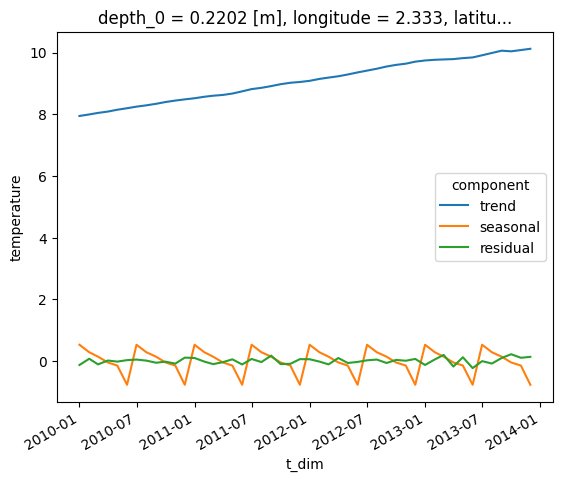
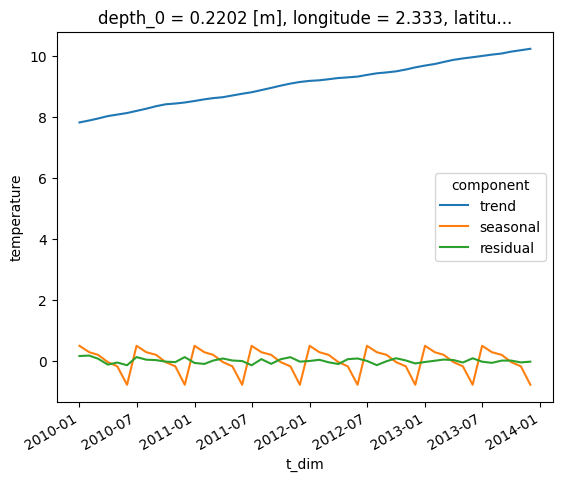
Updated General notebook pages from coast repo.

diff --git a/content/en/docs/Examples/Notebooks/General/seasonal_decomp_example.md b/content/en/docs/Examples/Notebooks/General/seasonal_decomp_example.md
@@ -86,7 +86,7 @@ temperature[0,0,:,:].plot()
 
 
 
-    <matplotlib.collections.QuadMesh at 0x7f0bca7c5e50>
+    <matplotlib.collections.QuadMesh at 0x7f62ce672790>
 
 
 
@@ -107,7 +107,7 @@ temperature[:,0,200,200].plot()
 
 
 
-    [<matplotlib.lines.Line2D at 0x7f0bc86026d0>]
+    [<matplotlib.lines.Line2D at 0x7f62cc48f820>]
 
 
 
@@ -525,7 +525,7 @@ Dimensions without coordinates: z_dim, y_dim, x_dim
 Data variables:
     trend      (t_dim, z_dim, y_dim, x_dim) float64 nan nan nan ... nan nan nan
     seasonal   (t_dim, z_dim, y_dim, x_dim) float64 nan nan nan ... nan nan nan
-    residual   (t_dim, z_dim, y_dim, x_dim) float64 nan nan nan ... nan nan nan</pre><div class='xr-wrap' style='display:none'><div class='xr-header'><div class='xr-obj-type'>xarray.Dataset</div></div><ul class='xr-sections'><li class='xr-section-item'><input id='section-40ec19ea-aab2-471b-a9e0-d44d515ee66f' class='xr-section-summary-in' type='checkbox' disabled ><label for='section-40ec19ea-aab2-471b-a9e0-d44d515ee66f' class='xr-section-summary'  title='Expand/collapse section'>Dimensions:</label><div class='xr-section-inline-details'><ul class='xr-dim-list'><li><span class='xr-has-index'>t_dim</span>: 48</li><li><span>z_dim</span>: 2</li><li><span>y_dim</span>: 375</li><li><span>x_dim</span>: 297</li></ul></div><div class='xr-section-details'></div></li><li class='xr-section-item'><input id='section-46bbb4de-ccfb-4165-a739-7895f18504a1' class='xr-section-summary-in' type='checkbox'  checked><label for='section-46bbb4de-ccfb-4165-a739-7895f18504a1' class='xr-section-summary' >Coordinates: <span>(4)</span></label><div class='xr-section-inline-details'></div><div class='xr-section-details'><ul class='xr-var-list'><li class='xr-var-item'><div class='xr-var-name'><span class='xr-has-index'>t_dim</span></div><div class='xr-var-dims'>(t_dim)</div><div class='xr-var-dtype'>datetime64[ns]</div><div class='xr-var-preview xr-preview'>2010-01-01 ... 2013-12-01</div><input id='attrs-8bab88d5-cfba-490e-86a2-385dc99b7c85' class='xr-var-attrs-in' type='checkbox' disabled><label for='attrs-8bab88d5-cfba-490e-86a2-385dc99b7c85' title='Show/Hide attributes'><svg class='icon xr-icon-file-text2'><use xlink:href='#icon-file-text2'></use></svg></label><input id='data-8e9e0b3e-ba79-4673-b732-813b495d7370' class='xr-var-data-in' type='checkbox'><label for='data-8e9e0b3e-ba79-4673-b732-813b495d7370' title='Show/Hide data repr'><svg class='icon xr-icon-database'><use xlink:href='#icon-database'></use></svg></label><div class='xr-var-attrs'><dl class='xr-attrs'></dl></div><div class='xr-var-data'><pre>array([&#x27;2010-01-01T00:00:00.000000000&#x27;, &#x27;2010-02-01T00:00:00.000000000&#x27;,
+    residual   (t_dim, z_dim, y_dim, x_dim) float64 nan nan nan ... nan nan nan</pre><div class='xr-wrap' style='display:none'><div class='xr-header'><div class='xr-obj-type'>xarray.Dataset</div></div><ul class='xr-sections'><li class='xr-section-item'><input id='section-bcdc258c-0a86-49d1-97e6-290416249f6c' class='xr-section-summary-in' type='checkbox' disabled ><label for='section-bcdc258c-0a86-49d1-97e6-290416249f6c' class='xr-section-summary'  title='Expand/collapse section'>Dimensions:</label><div class='xr-section-inline-details'><ul class='xr-dim-list'><li><span class='xr-has-index'>t_dim</span>: 48</li><li><span>z_dim</span>: 2</li><li><span>y_dim</span>: 375</li><li><span>x_dim</span>: 297</li></ul></div><div class='xr-section-details'></div></li><li class='xr-section-item'><input id='section-721a54f7-8f56-4215-94c2-9fef108885ff' class='xr-section-summary-in' type='checkbox'  checked><label for='section-721a54f7-8f56-4215-94c2-9fef108885ff' class='xr-section-summary' >Coordinates: <span>(4)</span></label><div class='xr-section-inline-details'></div><div class='xr-section-details'><ul class='xr-var-list'><li class='xr-var-item'><div class='xr-var-name'><span class='xr-has-index'>t_dim</span></div><div class='xr-var-dims'>(t_dim)</div><div class='xr-var-dtype'>datetime64[ns]</div><div class='xr-var-preview xr-preview'>2010-01-01 ... 2013-12-01</div><input id='attrs-da608ac9-82da-4406-b3f1-d85920e2038a' class='xr-var-attrs-in' type='checkbox' disabled><label for='attrs-da608ac9-82da-4406-b3f1-d85920e2038a' title='Show/Hide attributes'><svg class='icon xr-icon-file-text2'><use xlink:href='#icon-file-text2'></use></svg></label><input id='data-b71b4ba4-f8d2-4a1e-8e7f-4dc4e1637b17' class='xr-var-data-in' type='checkbox'><label for='data-b71b4ba4-f8d2-4a1e-8e7f-4dc4e1637b17' title='Show/Hide data repr'><svg class='icon xr-icon-database'><use xlink:href='#icon-database'></use></svg></label><div class='xr-var-attrs'><dl class='xr-attrs'></dl></div><div class='xr-var-data'><pre>array([&#x27;2010-01-01T00:00:00.000000000&#x27;, &#x27;2010-02-01T00:00:00.000000000&#x27;,
        &#x27;2010-03-01T00:00:00.000000000&#x27;, &#x27;2010-04-01T00:00:00.000000000&#x27;,
        &#x27;2010-05-01T00:00:00.000000000&#x27;, &#x27;2010-06-01T00:00:00.000000000&#x27;,
        &#x27;2010-07-01T00:00:00.000000000&#x27;, &#x27;2010-08-01T00:00:00.000000000&#x27;,
@@ -549,7 +549,7 @@ Data variables:
        &#x27;2013-07-01T00:00:00.000000000&#x27;, &#x27;2013-08-01T00:00:00.000000000&#x27;,
        &#x27;2013-09-01T00:00:00.000000000&#x27;, &#x27;2013-10-01T00:00:00.000000000&#x27;,
        &#x27;2013-11-01T00:00:00.000000000&#x27;, &#x27;2013-12-01T00:00:00.000000000&#x27;],
-      dtype=&#x27;datetime64[ns]&#x27;)</pre></div></li><li class='xr-var-item'><div class='xr-var-name'><span>depth_0</span></div><div class='xr-var-dims'>(z_dim, y_dim, x_dim)</div><div class='xr-var-dtype'>float32</div><div class='xr-var-preview xr-preview'>0.5 0.5 0.5 0.5 ... 1.5 1.5 1.5 1.5</div><input id='attrs-b5ba8169-f8d6-4c3c-995a-e67a7c819eb5' class='xr-var-attrs-in' type='checkbox' ><label for='attrs-b5ba8169-f8d6-4c3c-995a-e67a7c819eb5' title='Show/Hide attributes'><svg class='icon xr-icon-file-text2'><use xlink:href='#icon-file-text2'></use></svg></label><input id='data-d6f3d59f-b69c-43a5-b2c2-f29038998147' class='xr-var-data-in' type='checkbox'><label for='data-d6f3d59f-b69c-43a5-b2c2-f29038998147' title='Show/Hide data repr'><svg class='icon xr-icon-database'><use xlink:href='#icon-database'></use></svg></label><div class='xr-var-attrs'><dl class='xr-attrs'><dt><span>units :</span></dt><dd>m</dd><dt><span>standard_name :</span></dt><dd>Depth at time zero on the t-grid</dd></dl></div><div class='xr-var-data'><pre>array([[[0.5       , 0.5       , 0.5       , ..., 0.5       ,
+      dtype=&#x27;datetime64[ns]&#x27;)</pre></div></li><li class='xr-var-item'><div class='xr-var-name'><span>depth_0</span></div><div class='xr-var-dims'>(z_dim, y_dim, x_dim)</div><div class='xr-var-dtype'>float32</div><div class='xr-var-preview xr-preview'>0.5 0.5 0.5 0.5 ... 1.5 1.5 1.5 1.5</div><input id='attrs-5d7ecb33-f884-451f-b693-167737b73feb' class='xr-var-attrs-in' type='checkbox' ><label for='attrs-5d7ecb33-f884-451f-b693-167737b73feb' title='Show/Hide attributes'><svg class='icon xr-icon-file-text2'><use xlink:href='#icon-file-text2'></use></svg></label><input id='data-e4311218-79ed-41fd-8929-1b58914ca6c1' class='xr-var-data-in' type='checkbox'><label for='data-e4311218-79ed-41fd-8929-1b58914ca6c1' title='Show/Hide data repr'><svg class='icon xr-icon-database'><use xlink:href='#icon-database'></use></svg></label><div class='xr-var-attrs'><dl class='xr-attrs'><dt><span>units :</span></dt><dd>m</dd><dt><span>standard_name :</span></dt><dd>Depth at time zero on the t-grid</dd></dl></div><div class='xr-var-data'><pre>array([[[0.5       , 0.5       , 0.5       , ..., 0.5       ,
          0.5       , 0.5       ],
         [0.5       , 0.4975586 , 0.4975586 , ..., 0.10009766,
          0.10009766, 0.5       ],
@@ -575,7 +575,7 @@ Data variables:
         [1.5       , 0.30029297, 0.30029297, ..., 0.30029297,
          0.30029297, 1.5       ],
         [1.5       , 1.5       , 1.5       , ..., 1.5       ,
-         1.5       , 1.5       ]]], dtype=float32)</pre></div></li><li class='xr-var-item'><div class='xr-var-name'><span>longitude</span></div><div class='xr-var-dims'>(y_dim, x_dim)</div><div class='xr-var-dtype'>float32</div><div class='xr-var-preview xr-preview'>-19.89 -19.78 -19.67 ... 12.89 13.0</div><input id='attrs-4896fb95-12c7-4252-92d5-f5be54cbbd29' class='xr-var-attrs-in' type='checkbox' disabled><label for='attrs-4896fb95-12c7-4252-92d5-f5be54cbbd29' title='Show/Hide attributes'><svg class='icon xr-icon-file-text2'><use xlink:href='#icon-file-text2'></use></svg></label><input id='data-9d5cae15-1eb2-400e-b97f-9235ef6571a7' class='xr-var-data-in' type='checkbox'><label for='data-9d5cae15-1eb2-400e-b97f-9235ef6571a7' title='Show/Hide data repr'><svg class='icon xr-icon-database'><use xlink:href='#icon-database'></use></svg></label><div class='xr-var-attrs'><dl class='xr-attrs'></dl></div><div class='xr-var-data'><pre>array([[-19.888672, -19.777344, -19.666992, ...,  12.777344,  12.888672,
+         1.5       , 1.5       ]]], dtype=float32)</pre></div></li><li class='xr-var-item'><div class='xr-var-name'><span>longitude</span></div><div class='xr-var-dims'>(y_dim, x_dim)</div><div class='xr-var-dtype'>float32</div><div class='xr-var-preview xr-preview'>-19.89 -19.78 -19.67 ... 12.89 13.0</div><input id='attrs-5e5ec228-53bc-45b6-811d-25fcb3582729' class='xr-var-attrs-in' type='checkbox' disabled><label for='attrs-5e5ec228-53bc-45b6-811d-25fcb3582729' title='Show/Hide attributes'><svg class='icon xr-icon-file-text2'><use xlink:href='#icon-file-text2'></use></svg></label><input id='data-f098be00-1087-4767-b2cb-7cc9473ffd6e' class='xr-var-data-in' type='checkbox'><label for='data-f098be00-1087-4767-b2cb-7cc9473ffd6e' title='Show/Hide data repr'><svg class='icon xr-icon-database'><use xlink:href='#icon-database'></use></svg></label><div class='xr-var-attrs'><dl class='xr-attrs'></dl></div><div class='xr-var-data'><pre>array([[-19.888672, -19.777344, -19.666992, ...,  12.777344,  12.888672,
          13.      ],
        [-19.888672, -19.777344, -19.666992, ...,  12.777344,  12.888672,
          13.      ],
@@ -587,7 +587,7 @@ Data variables:
        [-19.888672, -19.777344, -19.666992, ...,  12.777344,  12.888672,
          13.      ],
        [-19.888672, -19.777344, -19.666992, ...,  12.777344,  12.888672,
-         13.      ]], dtype=float32)</pre></div></li><li class='xr-var-item'><div class='xr-var-name'><span>latitude</span></div><div class='xr-var-dims'>(y_dim, x_dim)</div><div class='xr-var-dtype'>float32</div><div class='xr-var-preview xr-preview'>40.07 40.07 40.07 ... 65.0 65.0</div><input id='attrs-9f4bff36-0da8-4834-845d-8d5d5ef647fa' class='xr-var-attrs-in' type='checkbox' disabled><label for='attrs-9f4bff36-0da8-4834-845d-8d5d5ef647fa' title='Show/Hide attributes'><svg class='icon xr-icon-file-text2'><use xlink:href='#icon-file-text2'></use></svg></label><input id='data-b1844bcf-0c18-423a-bea5-6830e29c8298' class='xr-var-data-in' type='checkbox'><label for='data-b1844bcf-0c18-423a-bea5-6830e29c8298' title='Show/Hide data repr'><svg class='icon xr-icon-database'><use xlink:href='#icon-database'></use></svg></label><div class='xr-var-attrs'><dl class='xr-attrs'></dl></div><div class='xr-var-data'><pre>array([[40.066406, 40.066406, 40.066406, ..., 40.066406, 40.066406,
+         13.      ]], dtype=float32)</pre></div></li><li class='xr-var-item'><div class='xr-var-name'><span>latitude</span></div><div class='xr-var-dims'>(y_dim, x_dim)</div><div class='xr-var-dtype'>float32</div><div class='xr-var-preview xr-preview'>40.07 40.07 40.07 ... 65.0 65.0</div><input id='attrs-51c1b01a-df9b-49c4-820b-866554b78de5' class='xr-var-attrs-in' type='checkbox' disabled><label for='attrs-51c1b01a-df9b-49c4-820b-866554b78de5' title='Show/Hide attributes'><svg class='icon xr-icon-file-text2'><use xlink:href='#icon-file-text2'></use></svg></label><input id='data-a62d642c-4e47-4c70-aa1e-d9666ffb17e7' class='xr-var-data-in' type='checkbox'><label for='data-a62d642c-4e47-4c70-aa1e-d9666ffb17e7' title='Show/Hide data repr'><svg class='icon xr-icon-database'><use xlink:href='#icon-database'></use></svg></label><div class='xr-var-attrs'><dl class='xr-attrs'></dl></div><div class='xr-var-data'><pre>array([[40.066406, 40.066406, 40.066406, ..., 40.066406, 40.066406,
         40.066406],
        [40.13379 , 40.13379 , 40.13379 , ..., 40.13379 , 40.13379 ,
         40.13379 ],
@@ -599,11 +599,11 @@ Data variables:
        [64.93457 , 64.93457 , 64.93457 , ..., 64.93457 , 64.93457 ,
         64.93457 ],
        [65.00098 , 65.00098 , 65.00098 , ..., 65.00098 , 65.00098 ,
-        65.00098 ]], dtype=float32)</pre></div></li></ul></div></li><li class='xr-section-item'><input id='section-0784e2de-76f9-4781-ae3c-5ee5f38a467a' class='xr-section-summary-in' type='checkbox'  checked><label for='section-0784e2de-76f9-4781-ae3c-5ee5f38a467a' class='xr-section-summary' >Data variables: <span>(3)</span></label><div class='xr-section-inline-details'></div><div class='xr-section-details'><ul class='xr-var-list'><li class='xr-var-item'><div class='xr-var-name'><span>trend</span></div><div class='xr-var-dims'>(t_dim, z_dim, y_dim, x_dim)</div><div class='xr-var-dtype'>float64</div><div class='xr-var-preview xr-preview'>nan nan nan nan ... nan nan nan nan</div><input id='attrs-2d2c5efb-b83d-4c21-8c38-59bbfc83566d' class='xr-var-attrs-in' type='checkbox' disabled><label for='attrs-2d2c5efb-b83d-4c21-8c38-59bbfc83566d' title='Show/Hide attributes'><svg class='icon xr-icon-file-text2'><use xlink:href='#icon-file-text2'></use></svg></label><input id='data-3d8113a3-c8c5-4634-8647-77a054bbd8bf' class='xr-var-data-in' type='checkbox'><label for='data-3d8113a3-c8c5-4634-8647-77a054bbd8bf' title='Show/Hide data repr'><svg class='icon xr-icon-database'><use xlink:href='#icon-database'></use></svg></label><div class='xr-var-attrs'><dl class='xr-attrs'></dl></div><div class='xr-var-data'><pre>array([[[[        nan,         nan,         nan, ...,         nan,
+        65.00098 ]], dtype=float32)</pre></div></li></ul></div></li><li class='xr-section-item'><input id='section-2bfa1d2e-5dd4-4d8d-91ae-94579e238859' class='xr-section-summary-in' type='checkbox'  checked><label for='section-2bfa1d2e-5dd4-4d8d-91ae-94579e238859' class='xr-section-summary' >Data variables: <span>(3)</span></label><div class='xr-section-inline-details'></div><div class='xr-section-details'><ul class='xr-var-list'><li class='xr-var-item'><div class='xr-var-name'><span>trend</span></div><div class='xr-var-dims'>(t_dim, z_dim, y_dim, x_dim)</div><div class='xr-var-dtype'>float64</div><div class='xr-var-preview xr-preview'>nan nan nan nan ... nan nan nan nan</div><input id='attrs-76ef45de-616d-4338-bc50-a2cedb5056b0' class='xr-var-attrs-in' type='checkbox' disabled><label for='attrs-76ef45de-616d-4338-bc50-a2cedb5056b0' title='Show/Hide attributes'><svg class='icon xr-icon-file-text2'><use xlink:href='#icon-file-text2'></use></svg></label><input id='data-45dbdf72-cf15-4a20-bcce-ec58d5f4ee7d' class='xr-var-data-in' type='checkbox'><label for='data-45dbdf72-cf15-4a20-bcce-ec58d5f4ee7d' title='Show/Hide data repr'><svg class='icon xr-icon-database'><use xlink:href='#icon-database'></use></svg></label><div class='xr-var-attrs'><dl class='xr-attrs'></dl></div><div class='xr-var-data'><pre>array([[[[        nan,         nan,         nan, ...,         nan,
                   nan,         nan],
-         [        nan, 15.35829368, 15.35503847, ...,         nan,
+         [        nan, 15.22745278, 15.22419757, ...,         nan,
                   nan,         nan],
-         [        nan, 15.34722597, 15.51503196, ...,         nan,
+         [        nan, 15.21638507, 15.38419106, ...,         nan,
                   nan,         nan],
          ...,
          [        nan,         nan,         nan, ...,         nan,
@@ -615,9 +615,9 @@ Data variables:
 
         [[        nan,         nan,         nan, ...,         nan,
                   nan,         nan],
-         [        nan, 15.35731712, 15.35422467, ...,         nan,
+         [        nan, 15.22647622, 15.22338377, ...,         nan,
                   nan,         nan],
-         [        nan, 15.34608665, 15.51893821, ...,         nan,
+         [        nan, 15.21524575, 15.38809731, ...,         nan,
                   nan,         nan],
 ...
          [        nan,         nan,         nan, ...,         nan,
@@ -629,9 +629,9 @@ Data variables:
 
         [[        nan,         nan,         nan, ...,         nan,
                   nan,         nan],
-         [        nan, 17.53554089, 17.53244845, ...,         nan,
+         [        nan, 17.63990866, 17.63681621, ...,         nan,
                   nan,         nan],
-         [        nan, 17.52431043, 17.69716199, ...,         nan,
+         [        nan, 17.62867819, 17.80152975, ...,         nan,
                   nan,         nan],
          ...,
          [        nan,         nan,         nan, ...,         nan,
@@ -639,11 +639,11 @@ Data variables:
          [        nan,         nan,         nan, ...,         nan,
                   nan,         nan],
          [        nan,         nan,         nan, ...,         nan,
-                  nan,         nan]]]])</pre></div></li><li class='xr-var-item'><div class='xr-var-name'><span>seasonal</span></div><div class='xr-var-dims'>(t_dim, z_dim, y_dim, x_dim)</div><div class='xr-var-dtype'>float64</div><div class='xr-var-preview xr-preview'>nan nan nan nan ... nan nan nan nan</div><input id='attrs-b11ef64e-85cf-48ae-b38d-b791fbd8b761' class='xr-var-attrs-in' type='checkbox' disabled><label for='attrs-b11ef64e-85cf-48ae-b38d-b791fbd8b761' title='Show/Hide attributes'><svg class='icon xr-icon-file-text2'><use xlink:href='#icon-file-text2'></use></svg></label><input id='data-92011388-7136-41b8-a3da-dcb1aedde969' class='xr-var-data-in' type='checkbox'><label for='data-92011388-7136-41b8-a3da-dcb1aedde969' title='Show/Hide data repr'><svg class='icon xr-icon-database'><use xlink:href='#icon-database'></use></svg></label><div class='xr-var-attrs'><dl class='xr-attrs'></dl></div><div class='xr-var-data'><pre>array([[[[        nan,         nan,         nan, ...,         nan,
+                  nan,         nan]]]])</pre></div></li><li class='xr-var-item'><div class='xr-var-name'><span>seasonal</span></div><div class='xr-var-dims'>(t_dim, z_dim, y_dim, x_dim)</div><div class='xr-var-dtype'>float64</div><div class='xr-var-preview xr-preview'>nan nan nan nan ... nan nan nan nan</div><input id='attrs-b7fc9fc1-a217-4a92-a525-01e9efab61d0' class='xr-var-attrs-in' type='checkbox' disabled><label for='attrs-b7fc9fc1-a217-4a92-a525-01e9efab61d0' title='Show/Hide attributes'><svg class='icon xr-icon-file-text2'><use xlink:href='#icon-file-text2'></use></svg></label><input id='data-3761f910-ad8f-49f2-bf2a-31afdbcc180d' class='xr-var-data-in' type='checkbox'><label for='data-3761f910-ad8f-49f2-bf2a-31afdbcc180d' title='Show/Hide data repr'><svg class='icon xr-icon-database'><use xlink:href='#icon-database'></use></svg></label><div class='xr-var-attrs'><dl class='xr-attrs'></dl></div><div class='xr-var-data'><pre>array([[[[        nan,         nan,         nan, ...,         nan,
                   nan,         nan],
-         [        nan,  0.06124321, -0.02241564, ...,         nan,
+         [        nan,  0.02990087, -0.05375798, ...,         nan,
                   nan,         nan],
-         [        nan,  0.08695936,  0.31661431, ...,         nan,
+         [        nan,  0.05561702,  0.28527197, ...,         nan,
                   nan,         nan],
          ...,
          [        nan,         nan,         nan, ...,         nan,
@@ -655,9 +655,9 @@ Data variables:
 
         [[        nan,         nan,         nan, ...,         nan,
                   nan,         nan],
-         [        nan,  0.05050102, -0.03332059, ...,         nan,
+         [        nan,  0.01915869, -0.06466293, ...,         nan,
                   nan,         nan],
-         [        nan,  0.07637993,  0.31270806, ...,         nan,
+         [        nan,  0.04503759,  0.28136572, ...,         nan,
                   nan,         nan],
 ...
          [        nan,         nan,         nan, ...,         nan,
@@ -669,9 +669,9 @@ Data variables:
 
         [[        nan,         nan,         nan, ...,         nan,
                   nan,         nan],
-         [        nan, -0.27856238, -0.26179805, ...,         nan,
+         [        nan, -0.28915056, -0.27238624, ...,         nan,
                   nan,         nan],
-         [        nan, -0.28881628, -0.6374491 , ...,         nan,
+         [        nan, -0.29940447, -0.64803728, ...,         nan,
                   nan,         nan],
          ...,
          [        nan,         nan,         nan, ...,         nan,
@@ -679,11 +679,11 @@ Data variables:
          [        nan,         nan,         nan, ...,         nan,
                   nan,         nan],
          [        nan,         nan,         nan, ...,         nan,
-                  nan,         nan]]]])</pre></div></li><li class='xr-var-item'><div class='xr-var-name'><span>residual</span></div><div class='xr-var-dims'>(t_dim, z_dim, y_dim, x_dim)</div><div class='xr-var-dtype'>float64</div><div class='xr-var-preview xr-preview'>nan nan nan nan ... nan nan nan nan</div><input id='attrs-117569b7-5788-4591-9bb5-6811fa83c0e7' class='xr-var-attrs-in' type='checkbox' disabled><label for='attrs-117569b7-5788-4591-9bb5-6811fa83c0e7' title='Show/Hide attributes'><svg class='icon xr-icon-file-text2'><use xlink:href='#icon-file-text2'></use></svg></label><input id='data-8c9ab8f8-53ef-4ab2-bdd5-ddfa4bbb81a9' class='xr-var-data-in' type='checkbox'><label for='data-8c9ab8f8-53ef-4ab2-bdd5-ddfa4bbb81a9' title='Show/Hide data repr'><svg class='icon xr-icon-database'><use xlink:href='#icon-database'></use></svg></label><div class='xr-var-attrs'><dl class='xr-attrs'></dl></div><div class='xr-var-data'><pre>array([[[[        nan,         nan,         nan, ...,         nan,
+                  nan,         nan]]]])</pre></div></li><li class='xr-var-item'><div class='xr-var-name'><span>residual</span></div><div class='xr-var-dims'>(t_dim, z_dim, y_dim, x_dim)</div><div class='xr-var-dtype'>float64</div><div class='xr-var-preview xr-preview'>nan nan nan nan ... nan nan nan nan</div><input id='attrs-210bdc83-865a-4644-b380-112616d778c6' class='xr-var-attrs-in' type='checkbox' disabled><label for='attrs-210bdc83-865a-4644-b380-112616d778c6' title='Show/Hide attributes'><svg class='icon xr-icon-file-text2'><use xlink:href='#icon-file-text2'></use></svg></label><input id='data-42bac9f0-6cef-4f56-ba27-158d0adf1836' class='xr-var-data-in' type='checkbox'><label for='data-42bac9f0-6cef-4f56-ba27-158d0adf1836' title='Show/Hide data repr'><svg class='icon xr-icon-database'><use xlink:href='#icon-database'></use></svg></label><div class='xr-var-attrs'><dl class='xr-attrs'></dl></div><div class='xr-var-data'><pre>array([[[[        nan,         nan,         nan, ...,         nan,
                   nan,         nan],
-         [        nan, -0.12711375, -0.12711375, ...,         nan,
+         [        nan,  0.16324925,  0.16324925, ...,         nan,
                   nan,         nan],
-         [        nan, -0.12711375, -0.12711375, ...,         nan,
+         [        nan,  0.16324925,  0.16324925, ...,         nan,
                   nan,         nan],
          ...,
          [        nan,         nan,         nan, ...,         nan,
@@ -695,9 +695,9 @@ Data variables:
 
         [[        nan,         nan,         nan, ...,         nan,
                   nan,         nan],
-         [        nan, -0.12711375, -0.12711375, ...,         nan,
+         [        nan,  0.16324925,  0.16324925, ...,         nan,
                   nan,         nan],
-         [        nan, -0.12711375, -0.12711375, ...,         nan,
+         [        nan,  0.16324925,  0.16324925, ...,         nan,
                   nan,         nan],
 ...
          [        nan,         nan,         nan, ...,         nan,
@@ -709,9 +709,9 @@ Data variables:
 
         [[        nan,         nan,         nan, ...,         nan,
                   nan,         nan],
-         [        nan,  0.1373113 ,  0.1373113 , ...,         nan,
+         [        nan, -0.0216337 , -0.0216337 , ...,         nan,
                   nan,         nan],
-         [        nan,  0.1373113 ,  0.1373113 , ...,         nan,
+         [        nan, -0.0216337 , -0.0216337 , ...,         nan,
                   nan,         nan],
          ...,
          [        nan,         nan,         nan, ...,         nan,
@@ -719,7 +719,7 @@ Data variables:
          [        nan,         nan,         nan, ...,         nan,
                   nan,         nan],
          [        nan,         nan,         nan, ...,         nan,
-                  nan,         nan]]]])</pre></div></li></ul></div></li><li class='xr-section-item'><input id='section-25fe3d6c-8aa2-484f-ada4-d643cc8f1e15' class='xr-section-summary-in' type='checkbox'  ><label for='section-25fe3d6c-8aa2-484f-ada4-d643cc8f1e15' class='xr-section-summary' >Indexes: <span>(1)</span></label><div class='xr-section-inline-details'></div><div class='xr-section-details'><ul class='xr-var-list'><li class='xr-var-item'><div class='xr-index-name'><div>t_dim</div></div><div class='xr-index-preview'>PandasIndex</div><div></div><input id='index-905c4e40-cb47-41c7-a5b4-15efede661a4' class='xr-index-data-in' type='checkbox'/><label for='index-905c4e40-cb47-41c7-a5b4-15efede661a4' title='Show/Hide index repr'><svg class='icon xr-icon-database'><use xlink:href='#icon-database'></use></svg></label><div class='xr-index-data'><pre>PandasIndex(DatetimeIndex([&#x27;2010-01-01&#x27;, &#x27;2010-02-01&#x27;, &#x27;2010-03-01&#x27;, &#x27;2010-04-01&#x27;,
+                  nan,         nan]]]])</pre></div></li></ul></div></li><li class='xr-section-item'><input id='section-6c89fc77-869d-4f16-af91-ead082171bb7' class='xr-section-summary-in' type='checkbox'  ><label for='section-6c89fc77-869d-4f16-af91-ead082171bb7' class='xr-section-summary' >Indexes: <span>(1)</span></label><div class='xr-section-inline-details'></div><div class='xr-section-details'><ul class='xr-var-list'><li class='xr-var-item'><div class='xr-index-name'><div>t_dim</div></div><div class='xr-index-preview'>PandasIndex</div><div></div><input id='index-c675e3e0-746e-4082-a0d3-3ac6946b0605' class='xr-index-data-in' type='checkbox'/><label for='index-c675e3e0-746e-4082-a0d3-3ac6946b0605' title='Show/Hide index repr'><svg class='icon xr-icon-database'><use xlink:href='#icon-database'></use></svg></label><div class='xr-index-data'><pre>PandasIndex(DatetimeIndex([&#x27;2010-01-01&#x27;, &#x27;2010-02-01&#x27;, &#x27;2010-03-01&#x27;, &#x27;2010-04-01&#x27;,
                &#x27;2010-05-01&#x27;, &#x27;2010-06-01&#x27;, &#x27;2010-07-01&#x27;, &#x27;2010-08-01&#x27;,
                &#x27;2010-09-01&#x27;, &#x27;2010-10-01&#x27;, &#x27;2010-11-01&#x27;, &#x27;2010-12-01&#x27;,
                &#x27;2011-01-01&#x27;, &#x27;2011-02-01&#x27;, &#x27;2011-03-01&#x27;, &#x27;2011-04-01&#x27;,
@@ -731,7 +731,7 @@ Data variables:
                &#x27;2013-01-01&#x27;, &#x27;2013-02-01&#x27;, &#x27;2013-03-01&#x27;, &#x27;2013-04-01&#x27;,
                &#x27;2013-05-01&#x27;, &#x27;2013-06-01&#x27;, &#x27;2013-07-01&#x27;, &#x27;2013-08-01&#x27;,
                &#x27;2013-09-01&#x27;, &#x27;2013-10-01&#x27;, &#x27;2013-11-01&#x27;, &#x27;2013-12-01&#x27;],
-              dtype=&#x27;datetime64[ns]&#x27;, name=&#x27;t_dim&#x27;, freq=None))</pre></div></li></ul></div></li><li class='xr-section-item'><input id='section-95676bf3-87e8-4080-a41f-94d92c0b3c1c' class='xr-section-summary-in' type='checkbox' disabled ><label for='section-95676bf3-87e8-4080-a41f-94d92c0b3c1c' class='xr-section-summary'  title='Expand/collapse section'>Attributes: <span>(0)</span></label><div class='xr-section-inline-details'></div><div class='xr-section-details'><dl class='xr-attrs'></dl></div></li></ul></div></div>
+              dtype=&#x27;datetime64[ns]&#x27;, name=&#x27;t_dim&#x27;, freq=None))</pre></div></li></ul></div></li><li class='xr-section-item'><input id='section-7dd5be6c-f55b-49fb-86f3-f7da32113400' class='xr-section-summary-in' type='checkbox' disabled ><label for='section-7dd5be6c-f55b-49fb-86f3-f7da32113400' class='xr-section-summary'  title='Expand/collapse section'>Attributes: <span>(0)</span></label><div class='xr-section-inline-details'></div><div class='xr-section-details'><dl class='xr-attrs'></dl></div></li></ul></div></div>
 
 
 
@@ -750,9 +750,9 @@ temp_decomp[:,:,0,200,200].plot(hue="component")
 
 
 
-    [<matplotlib.lines.Line2D at 0x7f0bc854e2e0>,
-     <matplotlib.lines.Line2D at 0x7f0bc84cfac0>,
-     <matplotlib.lines.Line2D at 0x7f0bc84cfa30>]
+    [<matplotlib.lines.Line2D at 0x7f62cc40af10>,
+     <matplotlib.lines.Line2D at 0x7f62cc34a5b0>,
+     <matplotlib.lines.Line2D at 0x7f62cc34a520>]
 
 
 

diff --git a/content/en/docs/Examples/Notebooks/General/eof_tutorial.md b/content/en/docs/Examples/Notebooks/General/eof_tutorial.md
@@ -70,7 +70,7 @@ eof_data.EOF.sel(mode=[1,2,3,4]).plot.pcolormesh(col='mode',col_wrap=2,x='longit
 
 
 
-    <xarray.plot.facetgrid.FacetGrid at 0x7f6094ac2ee0>
+    <xarray.plot.facetgrid.FacetGrid at 0x7fa10c3c7910>
 
 
 
@@ -88,7 +88,7 @@ eof_data.temporal_proj.sel(mode=[1,2,3,4]).plot(col='mode',col_wrap=2,x='time')
 
 
 
-    <xarray.plot.facetgrid.FacetGrid at 0x7f6050fcd910>
+    <xarray.plot.facetgrid.FacetGrid at 0x7fa0ca8e6b50>
 
 
 
